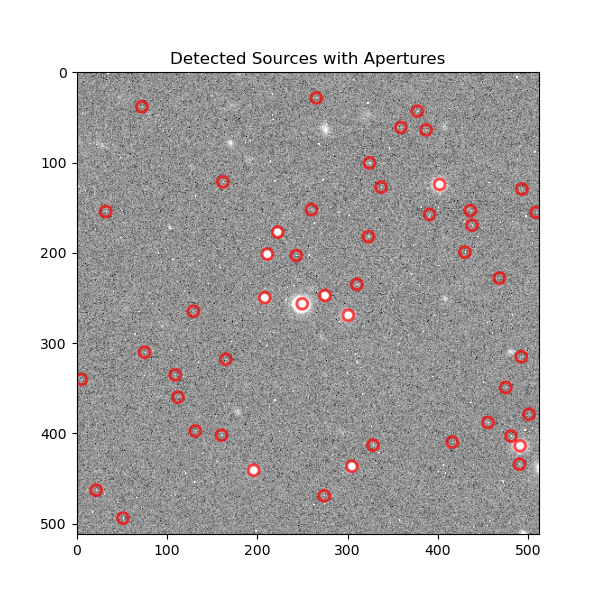
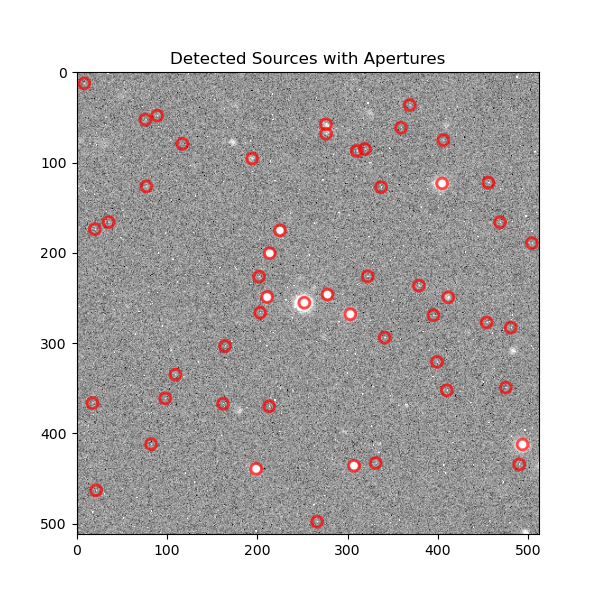
flux and error are now processed but we need to make a plotter to ensure the correct star is being analyzed on each step.

Changed region(s): [[0.12, 0.12, 0.9, 0.9]]

diff --git a/pipeline/photometry.py b/pipeline/photometry.py
@@ -238,23 +238,30 @@ class Photometry:
         self.data[field].append(value)
         self.data[f'{field}_error'].append(error)
 
-    def _transform_coordinates(self, raw_coordinates: tuple) -> tuple: 
+    #pass small coords in 400x400 scale from gui event
+    def _transform_coordinates(self, coord_type:str, coords_to_transform: tuple) -> tuple: 
         #scale 400x400 -> 4096x4096
-        x_large, y_large = self.scale_gui_coords_to_frames(raw_coordinates) 
+        x_target_large, y_target_large = self.scale_gui_coords_to_frames(self.target_coordinates_raw) 
+        x_transform_large, y_transform_large = self.scale_gui_coords_to_frames(coords_to_transform)
+        
         #shift to new coordinates (cutout centered on target star, 400x400)
-        return raw_coordinates
+        cutout_center_x, cutout_center_y = self.CUTOUT_SIZE[0]//2, self.CUTOUT_SIZE[1]//2
+        if coord_type == 'target': 
+            return (cutout_center_x, cutout_center_y)
+        else: 
+            return (x_transform_large-x_target_large+cutout_center_x, y_transform_large-y_target_large+cutout_center_y)
     
     def get_data(self, phot_table):
-        target_coords = self._transform_coordinates(self.target_coordinates_raw)
-        id_target = self._best_coord_match(phot_table, self.target_coordinates_raw)
+        target_coords = self._transform_coordinates('target', self.target_coordinates_raw)
+        id_target = self._best_coord_match(phot_table, target_coords)
         self._append_data("target", phot_table, id_target)
 
-        comparison_coordinates = self._transform_coordinates(self.comparison_coordinates_raw)
-        id_comparison = self._best_coord_match(phot_table, self.comparison_coordinates_raw)
+        comparison_coordinates = self._transform_coordinates('comparison', self.comparison_coordinates_raw)
+        id_comparison = self._best_coord_match(phot_table, comparison_coordinates)
         self._append_data("comparison", phot_table, id_comparison)
         
-        validation_coordinates = self._transform_coordinates(self.validation_coordinates_raw)
-        id_validation = self._best_coord_match(phot_table, self.validation_coordinates_raw)
+        validation_coordinates = self._transform_coordinates('validation', self.validation_coordinates_raw)
+        id_validation = self._best_coord_match(phot_table, validation_coordinates)
         self._append_data("validation", phot_table, id_validation)
         
     ######################################################################################################################################################################

diff --git a/pipeline/pipeline_driver.py b/pipeline/pipeline_driver.py
@@ -41,7 +41,6 @@ class PipelineDriver:
                     photometry_table = self.photometry.cutout_to_table(cutout_ccd_data, bkg, frame_ccd_data)
                     self.photometry.get_data(photometry_table)
                     print(self.photometry.data)
-                    break
             #Plot Results
         else: 
             print('Missing Entries')
